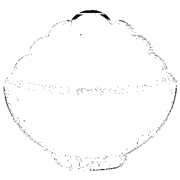
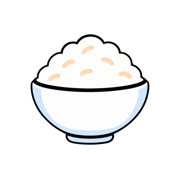
fix(ui): 깨진 브랜드 아이콘 에셋 복구, 파비콘 메타데이터 정비 및 빈 화면 마스코트 적용 (#82)
* feat(ui): 브랜드 밥공기 캐릭터 로고 적용, 팟 카테고리 이모지 표준화 및 모바일 헤더 최적화

* fix(ui): 깨진 브랜드 밥공기 아이콘 에셋 복구, 파비콘 메타데이터 정비 및 빈 화면 마스코트 적용

diff --git a/app/page.tsx b/app/page.tsx
@@ -170,7 +170,19 @@ export default function HomePage() {
           </div>
         ) : filteredPots.length === 0 ? (
           <div className="empty">
-            <div className="empty__emoji">{statusFilter === 'closed' ? '🗂' : '🍽'}</div>
+            <div className="empty__emoji">
+              {statusFilter === 'closed' ? (
+                '🗂'
+              ) : (
+                <Image
+                  alt=""
+                  className="empty__emoji-img"
+                  height={52}
+                  src="/icon.png"
+                  width={52}
+                />
+              )}
+            </div>
             <h2 className="empty__title">
               {statusFilter === 'closed' ? '아직 마감된 팟이 없어요' : '아직 열린 팟이 없어요'}
             </h2>

diff --git a/app/layout.tsx b/app/layout.tsx
@@ -28,11 +28,15 @@ export async function generateMetadata(): Promise<Metadata> {
     description,
     icons: {
       icon: [
+        { url: "/favicon.ico", sizes: "any" },
         { url: "/icon.svg", type: "image/svg+xml" },
         { url: "/icon-32.png", sizes: "32x32", type: "image/png" },
-        { url: "/favicon.ico", sizes: "any" },
+        { url: "/icon-192.png", sizes: "192x192", type: "image/png" },
       ],
-      shortcut: "/icon.svg",
+      apple: [
+        { url: "/apple-touch-icon.png", sizes: "180x180", type: "image/png" },
+      ],
+      shortcut: "/favicon.ico",
     },
     openGraph: {
       title,
